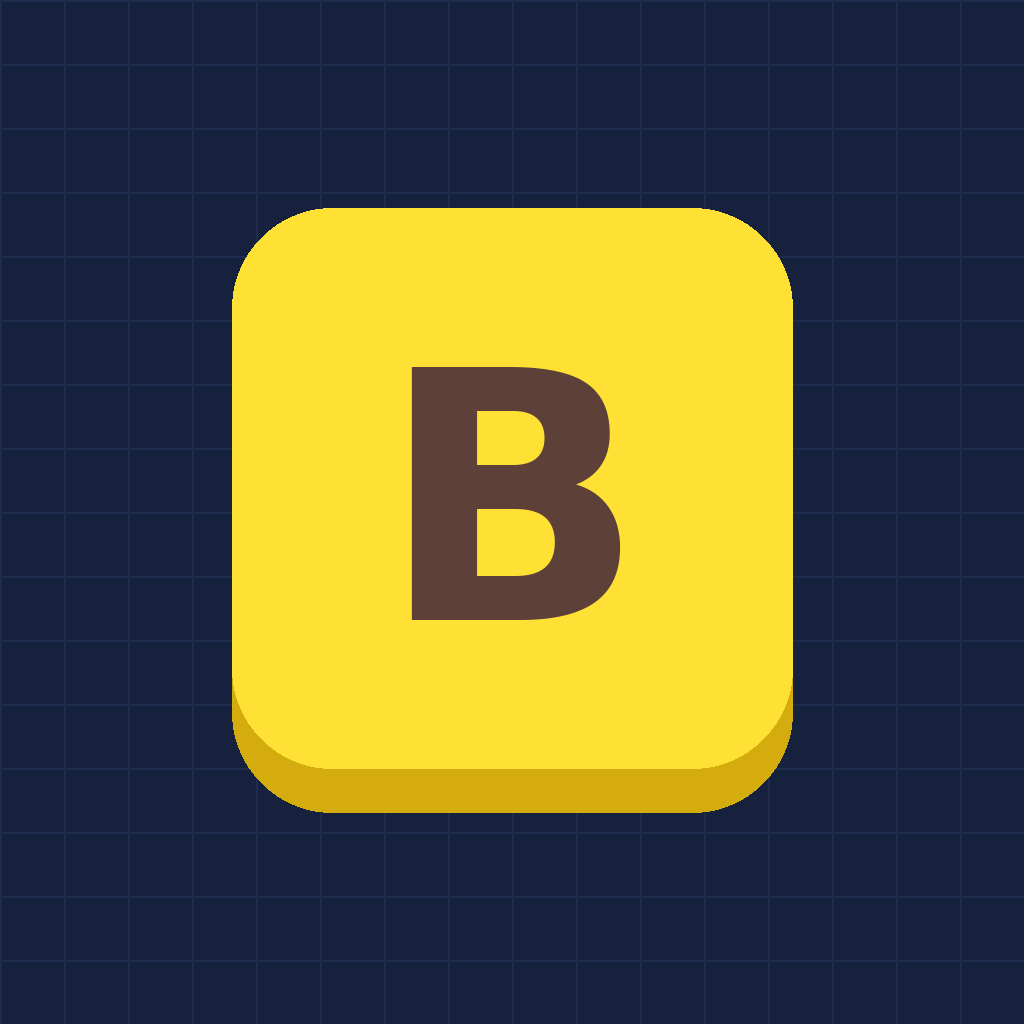
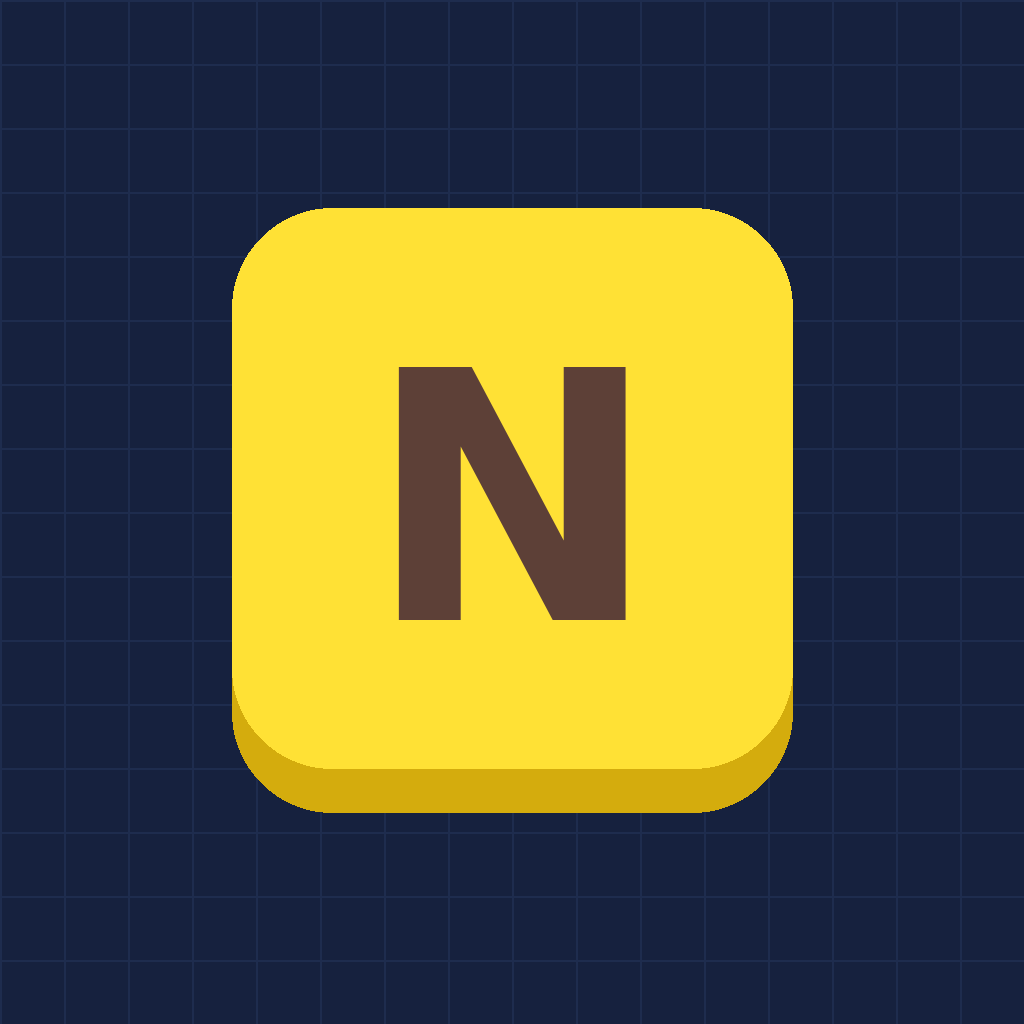
Rename the app to Nanagrams
"Bananagrams" is a registered trademark, which App Review rejects in an
app's name (guideline 5.2), so the app is now Nanagrams wherever players
see it: the home-screen name (expo.name), the home and online menu
titles, the room-code share message, and the icon tile (now an N).

The bundle ID, Expo slug and save-game keys keep "bananagrams": they're
invisible to players and can't change without breaking the App Store
Connect app, the EAS project and existing saved games. README and
CLAUDE.md say so.

Claude-Session: https://claude.ai/code/session_01K6C2xtsBbuv8gcuJfHDthV

Changed region(s): [[0.4375, 0.3438, 0.625, 0.625], [0.375, 0.3438, 0.4062, 0.625]]

diff --git a/app/online.tsx b/app/online.tsx
@@ -40,7 +40,7 @@ function RoomCode({ code }: { code: string }) {
           label="📤 Share"
           size="small"
           variant="blue"
-          onPress={() => Share.share({ message: `Play Bananagrams with me! Room code: ${code}` })}
+          onPress={() => Share.share({ message: `Play Nanagrams with me! Room code: ${code}` })}
         />
       </View>
     </View>
@@ -81,7 +81,7 @@ export default function OnlineScreen() {
       const code = normalizeRoomCode(joinInput);
       return (
         <CardScreen>
-          <Title sub="Online — play a friend">🍌 BANANAGRAMS</Title>
+          <Title sub="Online — play a friend">🍌 NANAGRAMS</Title>
           {game.saved && (
             <Button label={`↩ Rejoin ${game.saved.roomCode}`} variant="orange" onPress={game.rejoin} />
           )}

diff --git a/app/index.tsx b/app/index.tsx
@@ -27,12 +27,12 @@ export default function Home() {
 
   return (
     <CardScreen>
-      <View style={styles.tiles} accessible accessibilityLabel="Bananagrams">
+      <View style={styles.tiles} accessible accessibilityLabel="Nanagrams">
         {'BANANA'.split('').map((l, i) => (
           <TileFace key={i} letter={l} size={40} look={i % 2 ? 'plain' : 'valid'} />
         ))}
       </View>
-      <Title sub="Race to use every tile">BANANAGRAMS</Title>
+      <Title sub="Race to use every tile">NANAGRAMS</Title>
 
       {savedSolo ? (
         <>

diff --git a/app/solo.tsx b/app/solo.tsx
@@ -1,5 +1,5 @@
 // ─── Solo game ────────────────────────────────────────────────────────────────
-// Single-player Bananagrams. The game is saved after every change and resumed
+// Single-player Nanagrams. The game is saved after every change and resumed
 // when the screen opens, unless it was opened with ?new=1.
 
 import { useLocalSearchParams } from 'expo-router';

diff --git a/__tests__/solo.test.ts b/__tests__/solo.test.ts
@@ -5,7 +5,7 @@ import { createTileBag, LETTER_DISTRIBUTION, STARTING_TILES, TOTAL_TILES } from 
 import { dict, gridWith, seeded, t } from './helpers';
 
 describe('tile bag', () => {
-  it('holds the 144 Bananagrams tiles with unique ids', () => {
+  it('holds the 144 tiles with unique ids', () => {
     const bag = createTileBag(seeded());
     expect(bag).toHaveLength(144);
     expect(TOTAL_TILES).toBe(144);

diff --git a/README.md b/README.md
@@ -1,6 +1,6 @@
-# Bananagrams 2 player (iOS)
+# Nanagrams (iOS)
 
-An iOS app of the Bananagrams game from
+Nanagrams is an iOS app of the Bananagrams-style word game from
 [ericmanzi.github.io/bananagrams](https://ericmanzi.github.io/bananagrams/), built
 with Expo (SDK 57) and React Native. It has both modes from the web version:
 
@@ -67,11 +67,11 @@ The workflow runs from four secrets plus signing credentials stored on EAS:
 1. **Register the bundle ID.** In the
    [Apple Developer portal](https://developer.apple.com/account/resources/identifiers/list),
    go to Identifiers → **+** → App IDs → App. Enter a description such as
-   "Bananagrams 2 player" and the explicit bundle ID
+   "Nanagrams" and the explicit bundle ID
    `com.ericmanzi.bananagrams`, then Register.
 
 2. **Create the app.** In [App Store Connect](https://appstoreconnect.apple.com/apps),
-   go to **+** → New App. Choose iOS, name it **Bananagrams 2 player**, choose
+   go to **+** → New App. Choose iOS, name it **Nanagrams**, choose
    English (U.S.) as the primary language, pick bundle ID
    `com.ericmanzi.bananagrams`, and enter any SKU (for example `bananagrams`).
 
@@ -124,10 +124,13 @@ The workflow runs from four secrets plus signing credentials stored on EAS:
 
 ## Notes
 
-- **Home-screen name.** iOS cuts long names on the home screen, so
-  "Bananagrams 2 player" shows as roughly "Bananagrams…". To show a shorter
-  label there while keeping the full name in the App Store, change `expo.name`
-  in `app.json`.
+- **Name.** The app is called Nanagrams everywhere players see it: on the
+  home screen (`expo.name` in `app.json`), in the App Store and in the app
+  itself. "Bananagrams" is a trademark, so keep it out of anything
+  user-facing. The bundle ID (`com.ericmanzi.bananagrams`), the Expo slug and
+  the save-game keys still say "bananagrams". Players never see them, and they
+  can't change without breaking the App Store Connect app, the EAS project and
+  existing saved games.
 - **Dependency versions.** Native module versions are pinned to what Expo SDK
   57 expects. `react-native-gesture-handler`, `react-native-reanimated` and
   `react-native-worklets` are listed only for this reason: expo-router pulls

diff --git a/CLAUDE.md b/CLAUDE.md
@@ -4,11 +4,14 @@ Guidance for Claude Code when working in this repository.
 
 ## Project
 
-An iOS app (Expo SDK 57, React Native, expo-router, TypeScript) of the
-Bananagrams game from the `ericmanzi.github.io` repo (`bananagrams/` online,
+Nanagrams: an iOS app (Expo SDK 57, React Native, expo-router, TypeScript) of
+the Bananagrams-style game from the `ericmanzi.github.io` repo (`bananagrams/` online,
 `bananagrams-1p/` solo). Shipped to TestFlight through EAS by
 `.github/workflows/testflight.yml`, modelled on the SeparateCompanions repo.
-The store name is "Bananagrams 2 player".
+The app and store name is "Nanagrams"; never use "Bananagrams" (a trademark)
+in anything players see. The bundle ID, Expo slug and storage keys still say
+"bananagrams" because they can't change without breaking the App Store
+Connect app, the EAS project and saved games.
 
 ## Commands
 
